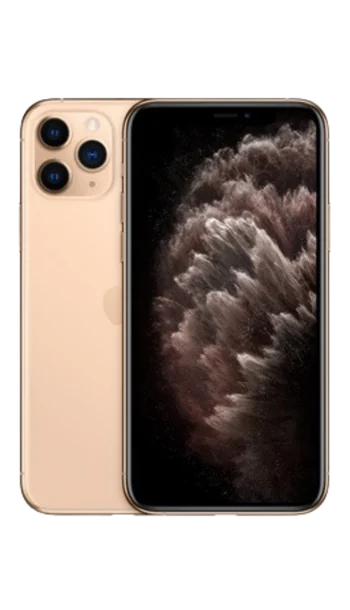
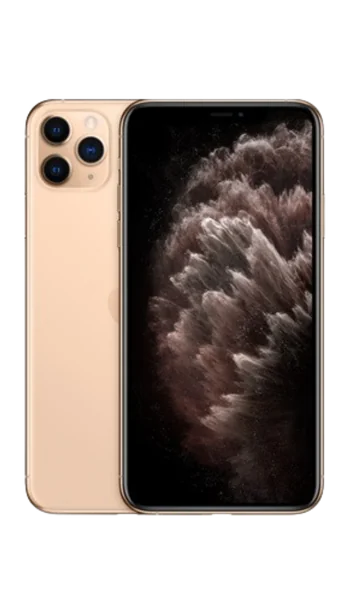
v1.1: imágenes predeterminadas, quinta tanda (25 de 182)
- iPhone 11 Pro Max con sus propias imágenes (Plata, Gris espacial, Oro
  y Verde noche): reemplazan a las del 11 Pro.
- iPhone SE (2.ª generación): Negro.

Claude-Session: https://claude.ai/code/session_01T8bAe4Z7w5hoWuiY5mK5Vw

diff --git a/assets/js/datos/predeterminadas.js b/assets/js/datos/predeterminadas.js
@@ -20,9 +20,9 @@ export const IMAGENES_PREDETERMINADAS = {
   "iphone-7": { "Negro": "negro", "Oro": "oro", "Negro brillante": "negro-brillante", "(PRODUCT)RED": "product-red" },
   "iphone-7-plus": { "Negro": "negro", "Oro": "oro", "(PRODUCT)RED": "product-red", "Oro rosa": "oro-rosa", "Plata": "plata", "Negro brillante": "negro-brillante" },
   "iphone-11": { "Morado": "morado", "(PRODUCT)RED": "product-red", "Blanco": "blanco", "Negro": "negro", "Verde": "verde", "Amarillo": "amarillo" },
-  // El 11 Pro y el 11 Pro Max se ven iguales (cambia el tamaño): la misma imagen en los dos.
   "iphone-11-pro": { "Verde noche": "verde-noche", "Plata": "plata", "Gris espacial": "gris-espacial", "Oro": "oro" },
-  "iphone-11-pro-max": { "Verde noche": "verde-noche", "Plata": "plata", "Gris espacial": "gris-espacial", "Oro": "oro" }
+  "iphone-11-pro-max": { "Verde noche": "verde-noche", "Plata": "plata", "Gris espacial": "gris-espacial", "Oro": "oro" },
+  "iphone-se-2": { "Negro": "negro" }
 };
 
 export const esPredeterminada = (ruta) => String(ruta || "").startsWith(PREFIJO_PREDETERMINADA);

diff --git a/DOCUMENTACION.md b/DOCUMENTACION.md
@@ -1514,7 +1514,7 @@ CORREOS_IDIOMA=pt BIN=… bash tests/supabase-local/levantar.sh   # con los corr
 - [ ] **Fuentes legales que no se pudieron abrir** desde el entorno: se verificaron con el buscador y, desde el 22/10/2026, con los informes de Gemini Deep Research que pasó Jared (citas revisadas por coherencia, no contra el original). Ver `legal/FUENTES.md`. Queda para el abogado: la Ley 2300 (franjas, con fuentes secundarias) y si el radicado de PQR con respuesta por WhatsApp o correo cumple con el "seguimiento" (fuente 17).
 - [ ] **Cookies del script de seguimiento externo de GHL:** no se verificaron; si se activa, agregarlo a la Política de cookies.
 - [ ] Probar en GHL los campos de consentimiento y la guía de la sección 12.3.
-- [ ] **Imágenes predeterminadas (v1.1):** Jared las pasa de a 5. Van 24 de 182 combinaciones de modelo y color. Completos: iPhone 7 Plus, 11, 11 Pro y 11 Pro Max. Al iPhone 7 le faltan Plata y Oro rosa. La lista exacta está en `IMAGENES_PREDETERMINADAS` (`assets/js/datos/predeterminadas.js`). El proceso para cada tanda está en la sección 5 de `AI_HANDOFF.md`.
+- [ ] **Imágenes predeterminadas (v1.1):** Jared las pasa de a 5. Van 25 de 182 combinaciones de modelo y color. Completos: iPhone 7 Plus, 11, 11 Pro y 11 Pro Max. Al iPhone 7 le faltan Plata y Oro rosa; el SE (2.ª generación) tiene Negro. La lista exacta está en `IMAGENES_PREDETERMINADAS` (`assets/js/datos/predeterminadas.js`). El proceso para cada tanda está en la sección 5 de `AI_HANDOFF.md`.
 - [ ] Que el abogado confirme si publicar capturas de clientes (aun tapadas) necesita autorización por escrito, y si alcanza con lo que guarda el panel desde `0034` (canal, fecha y alcance de la autorización, sin datos de la persona; el mensaje o el documento lo guarda la tienda por fuera).
 - [ ] **Reseñas de antes de `0034`:** quedan "sin registrar" hasta que la tienda complete la autorización en su fila. Se siguen mostrando en el sitio mientras tanto.
 - [x] ~~Confirmar los nombres del catálogo~~: confirmados con las fichas de soporte de Apple en español (informes de Gemini, 22/10/2026). Apple anunció el 17e, 18 Pro, 18 Pro Max y Duo.
@@ -1578,6 +1578,18 @@ Otros LLM o herramientas que no ejecuten hooks deben seguir la misma regla a man
 ## 19. Registro de cambios
 
 > La entrada más nueva va arriba. Formato: **fecha · título** — pedido → qué se hizo → archivos → verificación.
+
+### 23/10/2026 · v1.1: imágenes predeterminadas, quinta tanda (25 de 182)
+
+- **Pedido de Jared:** 5 imágenes más.
+- **Hecho:**
+  - **iPhone 11 Pro Max**, con imágenes propias (el equipo se ve más ancho en el mismo encuadre). Reemplazan a las del 11 Pro que se habían puesto en la tanda anterior:
+    - 24: Plata.
+    - 25: Gris espacial.
+    - 27: Oro.
+    - 28: Verde noche.
+  - **26: iPhone SE (2.ª generación), Negro.** Se reconoce por el botón de inicio, la cámara simple y el fondo de pantalla de su lanzamiento en 2020. No se usó para el SE (3.ª generación), cuyo color oscuro es otro ("Medianoche").
+- **Verificación:** `node tests/documentacion.mjs` OK, todos los archivos del mapa existen, y en `tests/verificar.cjs` pasan el caso "v1.1: imágenes" y el 11 (sin marca).
 
 ### 23/10/2026 · v1.1: imágenes predeterminadas, cuarta tanda (24 de 182)
 

diff --git a/AI_HANDOFF.md b/AI_HANDOFF.md
@@ -202,7 +202,7 @@ No hay tests fallando ni configuraciones a medias. El código actual funciona y 
       5. Correr el caso "v1.1: imágenes" y el 11 (sin marca) de `verificar.cjs`.
       6. Actualizar en `DOCUMENTACION.md` la cuenta de la sección 17 ("Van N de 182") y la entrada de la 19.
       7. Commit y push.
-    - **Cargadas hasta ahora (24 de 182):** completos el iPhone 7 Plus, 11, 11 Pro y 11 Pro Max (estos dos con las mismas imágenes); al iPhone 7 le faltan Plata y Oro rosa. Criterio: si dos modelos se ven iguales y solo cambia el tamaño (Pro y Pro Max, por ejemplo), la misma imagen va en los dos y se le avisa a Jared.
+    - **Cargadas hasta ahora (25 de 182):** completos el iPhone 7 Plus, 11, 11 Pro y 11 Pro Max (cada uno con sus imágenes); al iPhone 7 le faltan Plata y Oro rosa; SE (2.ª generación): Negro. Criterio: si dos modelos se ven iguales y solo cambia el tamaño (Pro y Pro Max, por ejemplo), la misma imagen va en los dos y se le avisa a Jared.
     - **Mecanismo** (ya hecho; no cambia por tanda):
       - En `equipos.fotos` va la ruta `predeterminadas/<slug>/<archivo>.webp`.
       - `urlArchivo()` (demo y Supabase) la sirve desde el sitio y `borrarArchivos()` no la borra.
